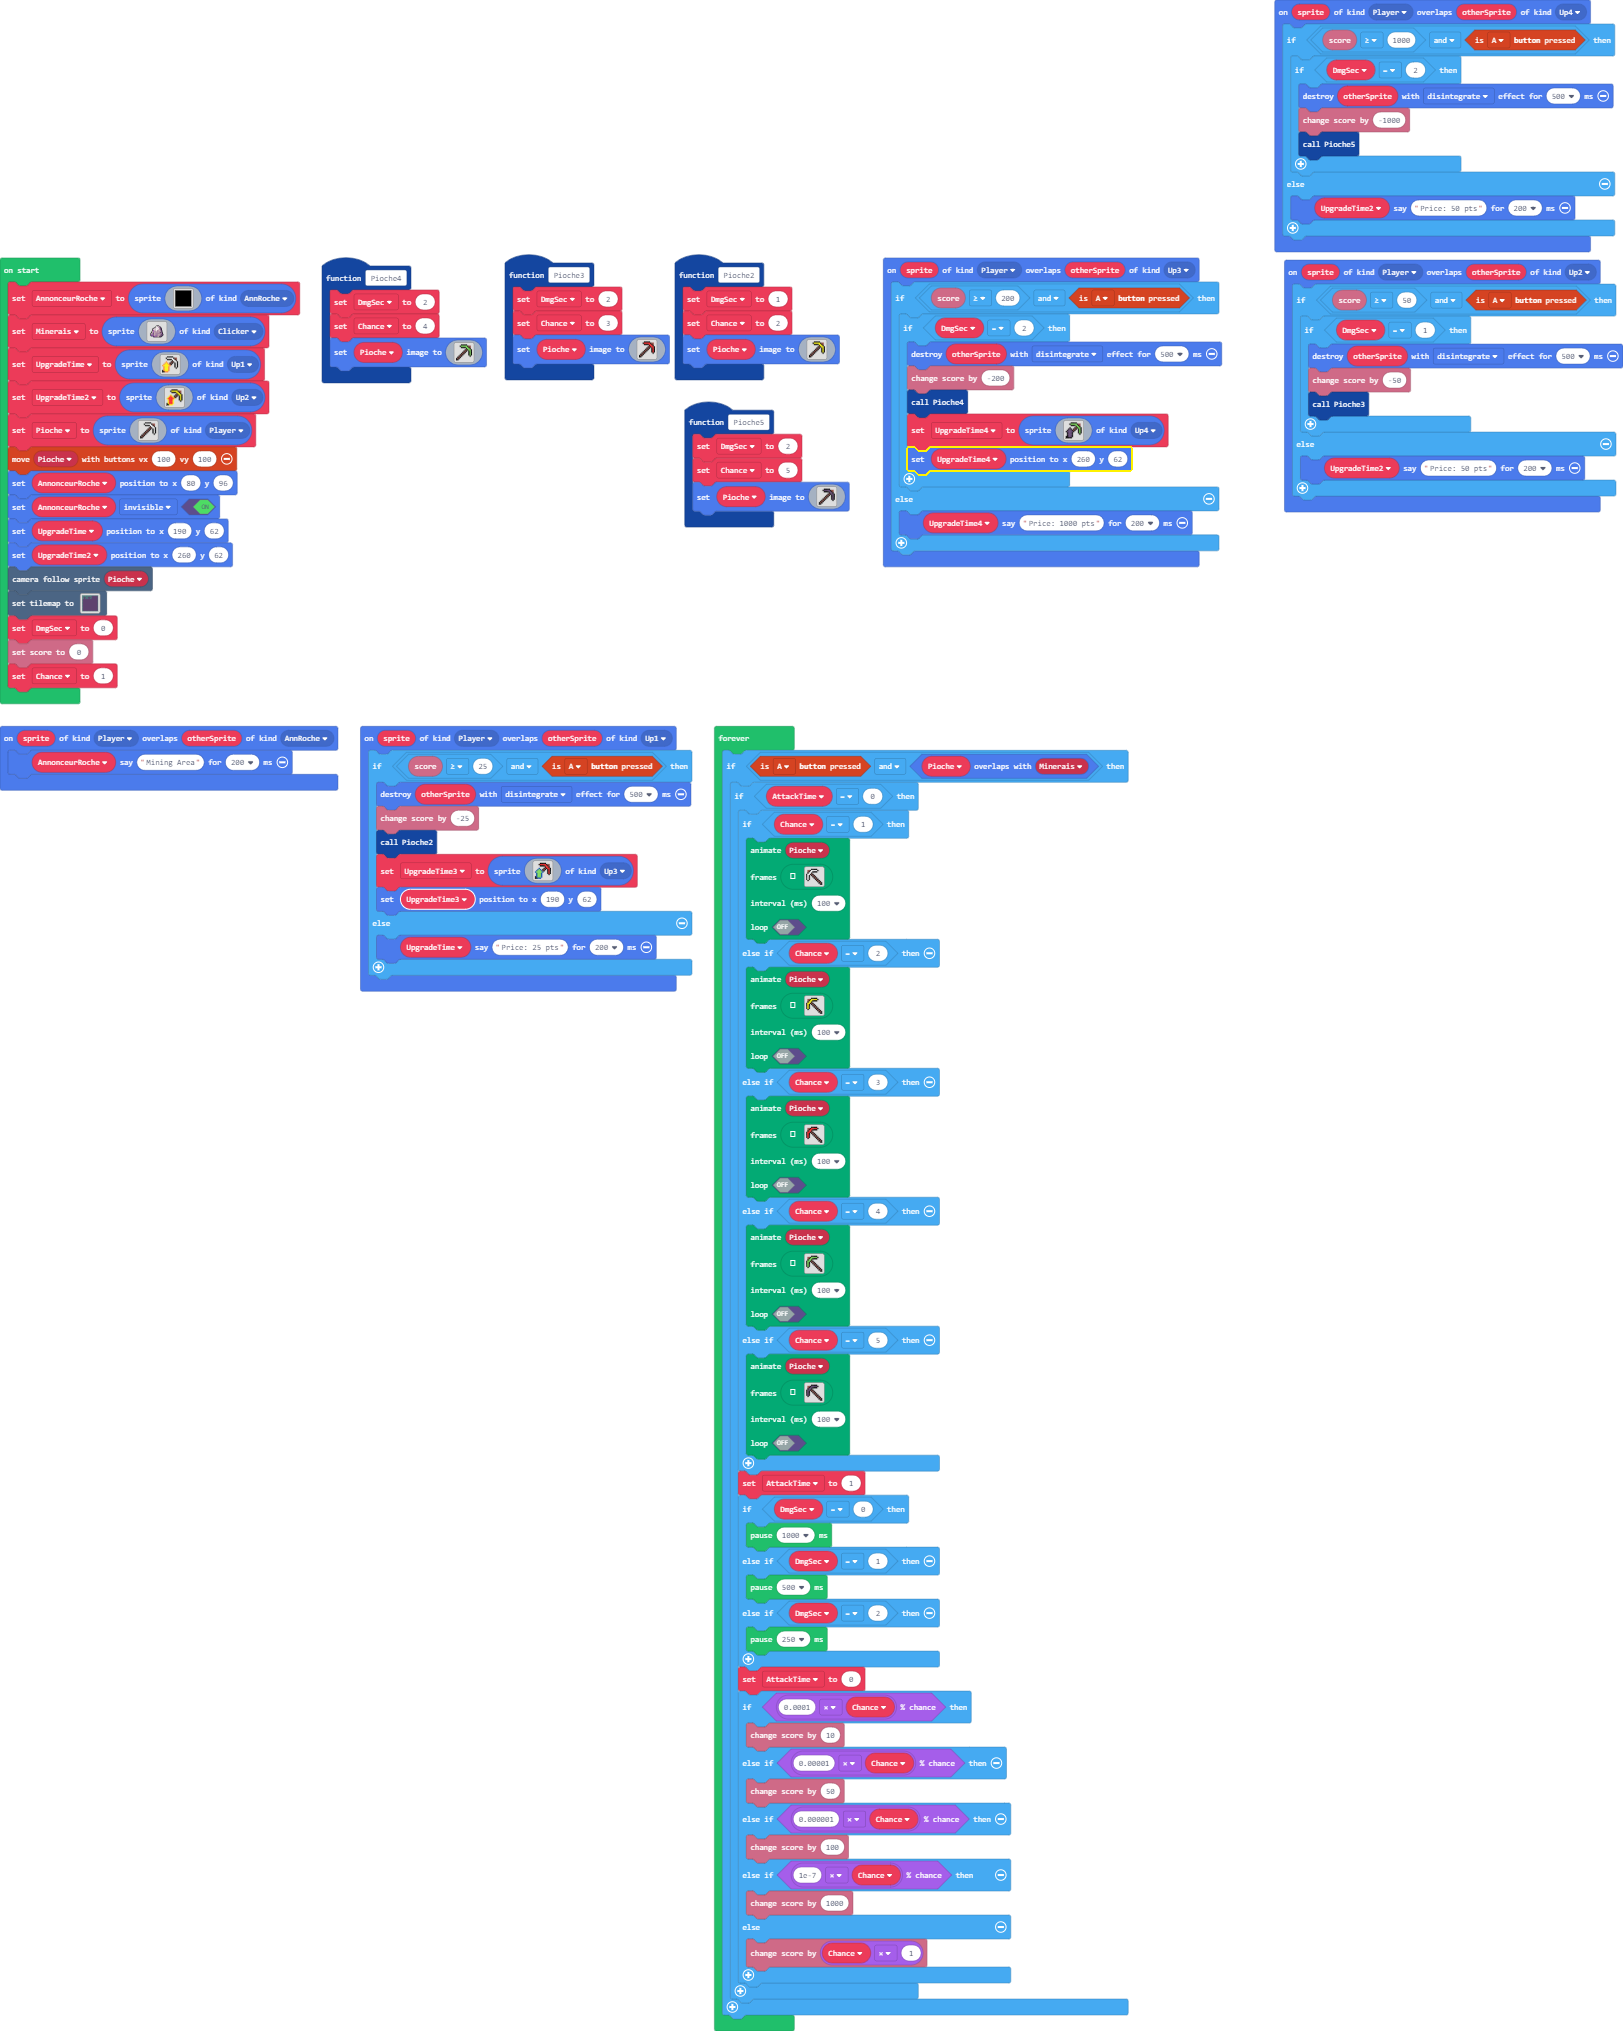
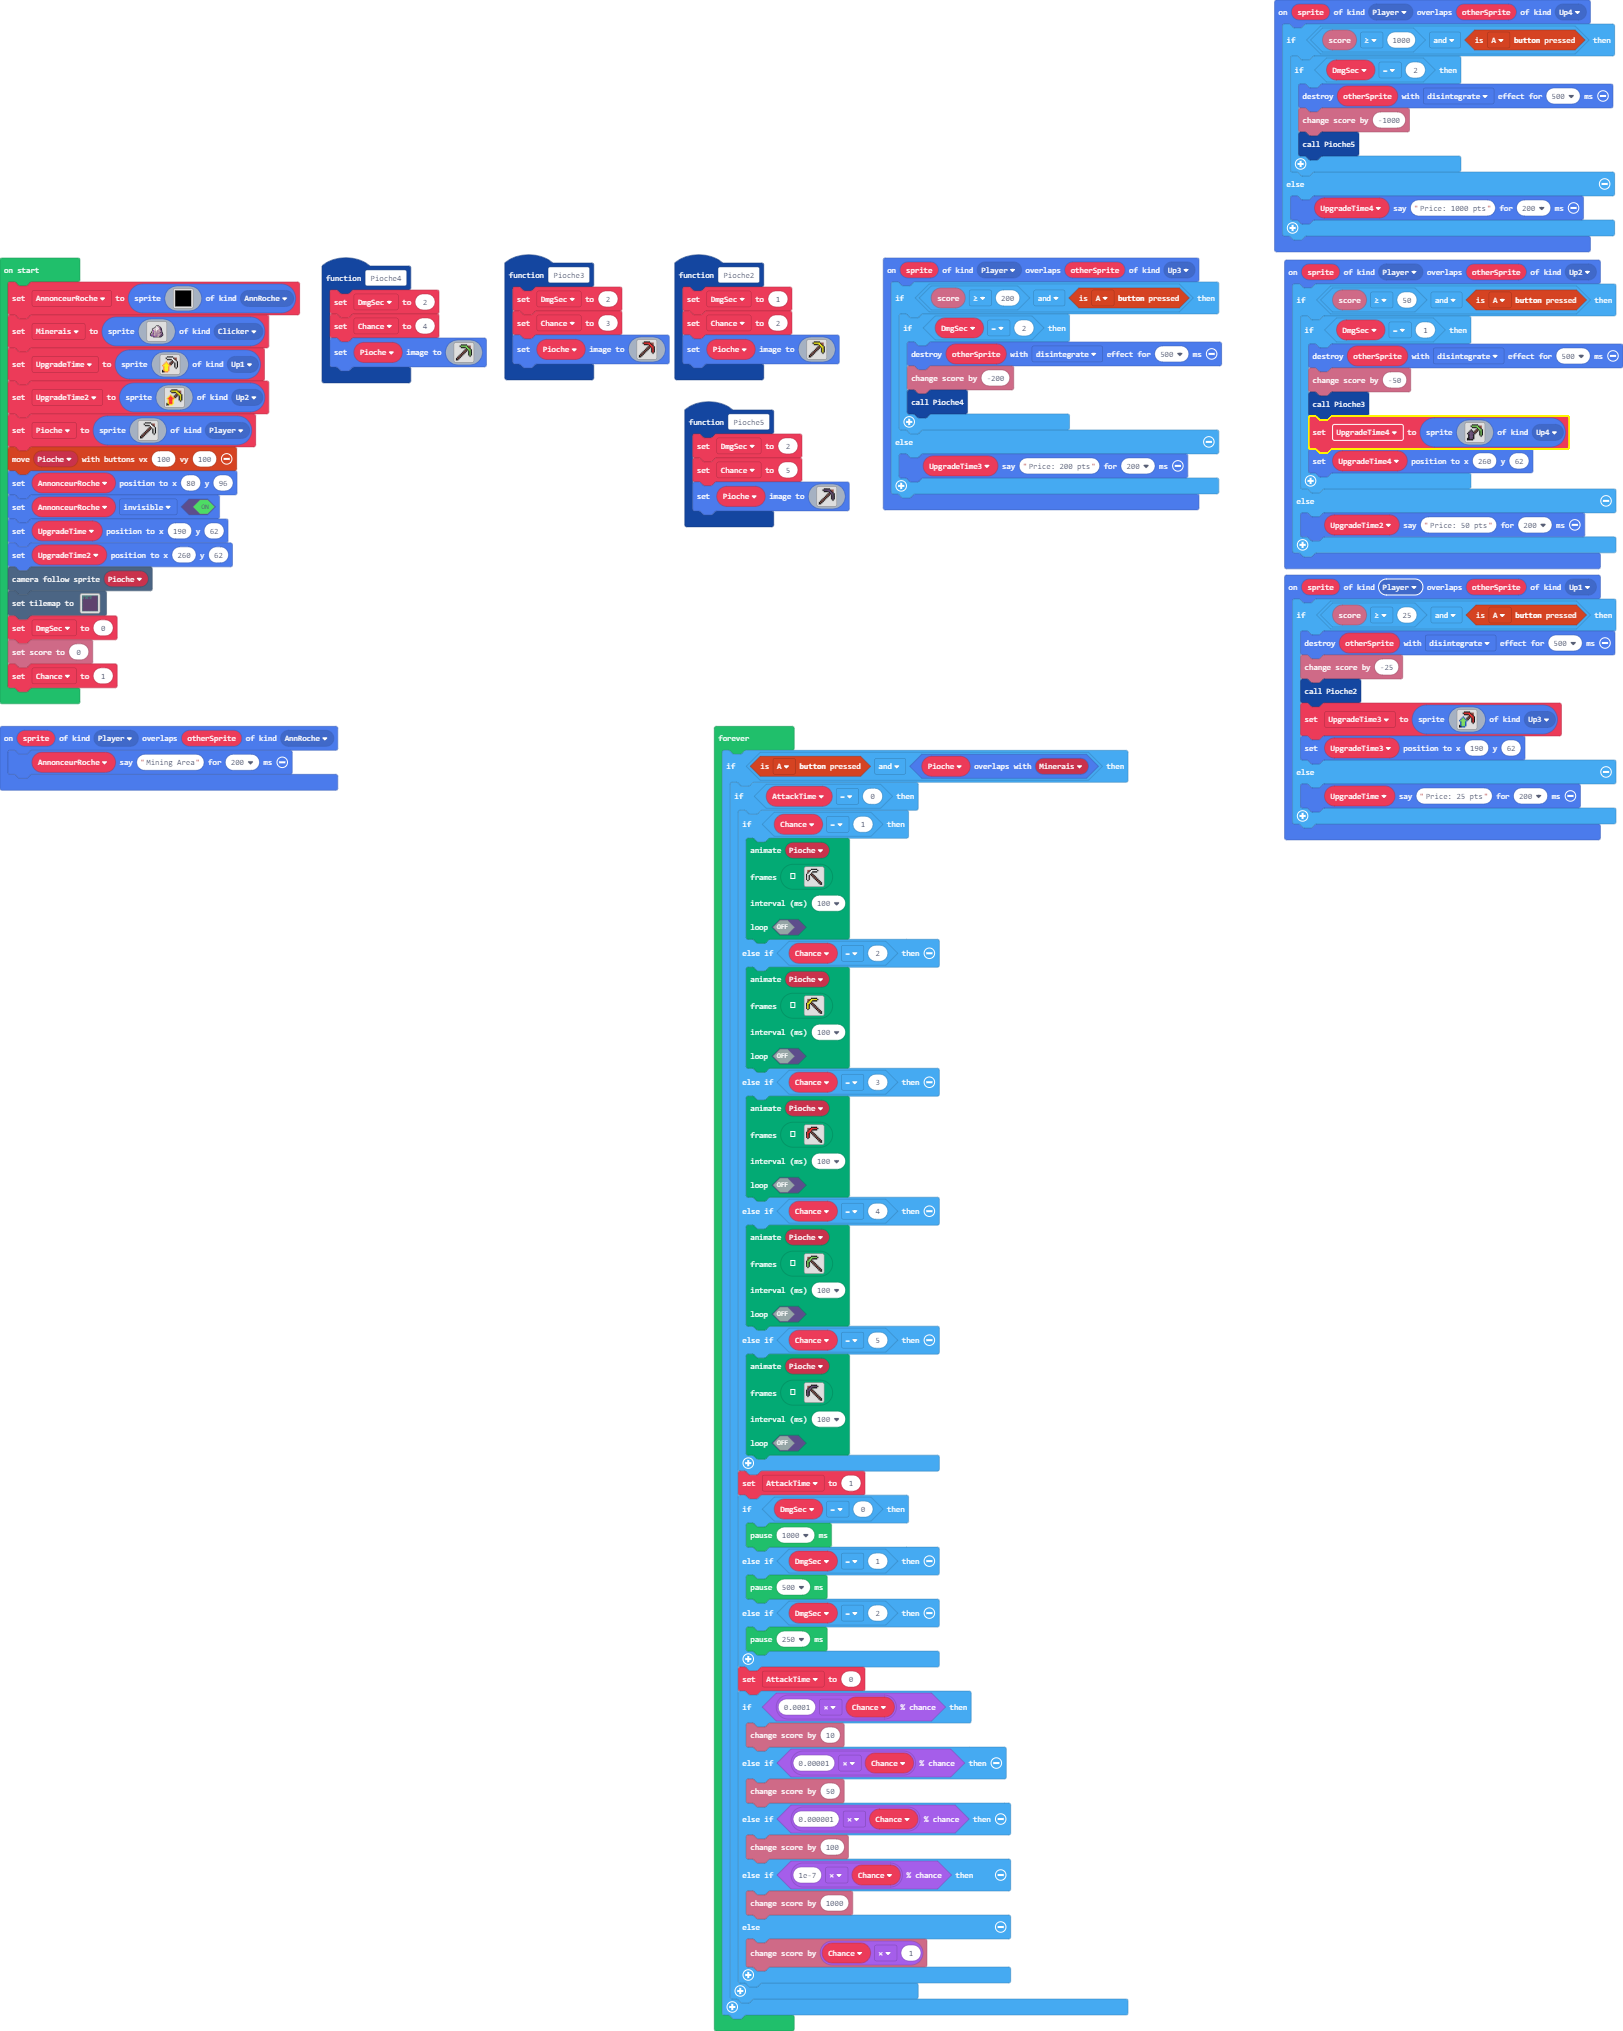
Update main.blocks, main.ts

Changed region(s): [[0.5237, 0.1861, 1.0, 0.4343], [0.2157, 0.3412, 0.4313, 0.4963], [0.9242, 0.0931, 0.9858, 0.1241]]

diff --git a/main.ts b/main.ts
@@ -46,25 +46,6 @@ f e f . . . . . . . . . .
 f f . . . . . . . . . . . 
 `)
 }
-function Pioche5 () {
-    DmgSec = 2
-    Chance = 5
-    Pioche.setImage(img`
-. . . . f f f f f . . . . 
-. . . f c c c c c f e e . 
-. . . . f f f f c c f e . 
-. . . . . . . . f c c f . 
-. . . . . . . f e f c c f 
-. . . . . . f e f . f c f 
-. . . . . f e f . . f c f 
-. . . . f e f . . . f c f 
-. . . f e f . . . . f c f 
-. . f e f . . . . . . f . 
-. f e f . . . . . . . . . 
-f e f . . . . . . . . . . 
-f f . . . . . . . . . . . 
-`)
-}
 sprites.onOverlap(SpriteKind.Player, SpriteKind.Up4, function (sprite, otherSprite) {
     if (info.score() >= 1000 && controller.A.isPressed()) {
         if (DmgSec == 2) {
@@ -73,7 +54,7 @@ sprites.onOverlap(SpriteKind.Player, SpriteKind.Up4, function (sprite, otherSpri
             Pioche5()
         }
     } else {
-        UpgradeTime2.say("Price: 50 pts", 200)
+        UpgradeTime4.say("Price: 1000 pts", 200)
     }
 })
 function Pioche3 () {
@@ -95,12 +76,42 @@ f e f . . . . . . . . . .
 f f . . . . . . . . . . . 
 `)
 }
+function Pioche5 () {
+    DmgSec = 2
+    Chance = 5
+    Pioche.setImage(img`
+. . . . f f f f f . . . . 
+. . . f c c c c c f e e . 
+. . . . f f f f c c f e . 
+. . . . . . . . f c c f . 
+. . . . . . . f e f c c f 
+. . . . . . f e f . f c f 
+. . . . . f e f . . f c f 
+. . . . f e f . . . f c f 
+. . . f e f . . . . f c f 
+. . f e f . . . . . . f . 
+. f e f . . . . . . . . . 
+f e f . . . . . . . . . . 
+f f . . . . . . . . . . . 
+`)
+}
 sprites.onOverlap(SpriteKind.Player, SpriteKind.Up3, function (sprite, otherSprite) {
     if (info.score() >= 200 && controller.A.isPressed()) {
         if (DmgSec == 2) {
             otherSprite.destroy(effects.disintegrate, 500)
             info.changeScoreBy(-200)
             Pioche4()
+        }
+    } else {
+        UpgradeTime3.say("Price: 200 pts", 200)
+    }
+})
+sprites.onOverlap(SpriteKind.Player, SpriteKind.Up2, function (sprite, otherSprite) {
+    if (info.score() >= 50 && controller.A.isPressed()) {
+        if (DmgSec == 1) {
+            otherSprite.destroy(effects.disintegrate, 500)
+            info.changeScoreBy(-50)
+            Pioche3()
             UpgradeTime4 = sprites.create(img`
 . . . . f f f f f . . . . 
 . . . f 7 7 7 7 7 f e e . 
@@ -117,17 +128,6 @@ f f c c c f . . . . . . .
 f f f f f . . . . . . . . 
 `, SpriteKind.Up4)
             UpgradeTime4.setPosition(260, 62)
-        }
-    } else {
-        UpgradeTime4.say("Price: 1000 pts", 200)
-    }
-})
-sprites.onOverlap(SpriteKind.Player, SpriteKind.Up2, function (sprite, otherSprite) {
-    if (info.score() >= 50 && controller.A.isPressed()) {
-        if (DmgSec == 1) {
-            otherSprite.destroy(effects.disintegrate, 500)
-            info.changeScoreBy(-50)
-            Pioche3()
         }
     } else {
         UpgradeTime2.say("Price: 50 pts", 200)
